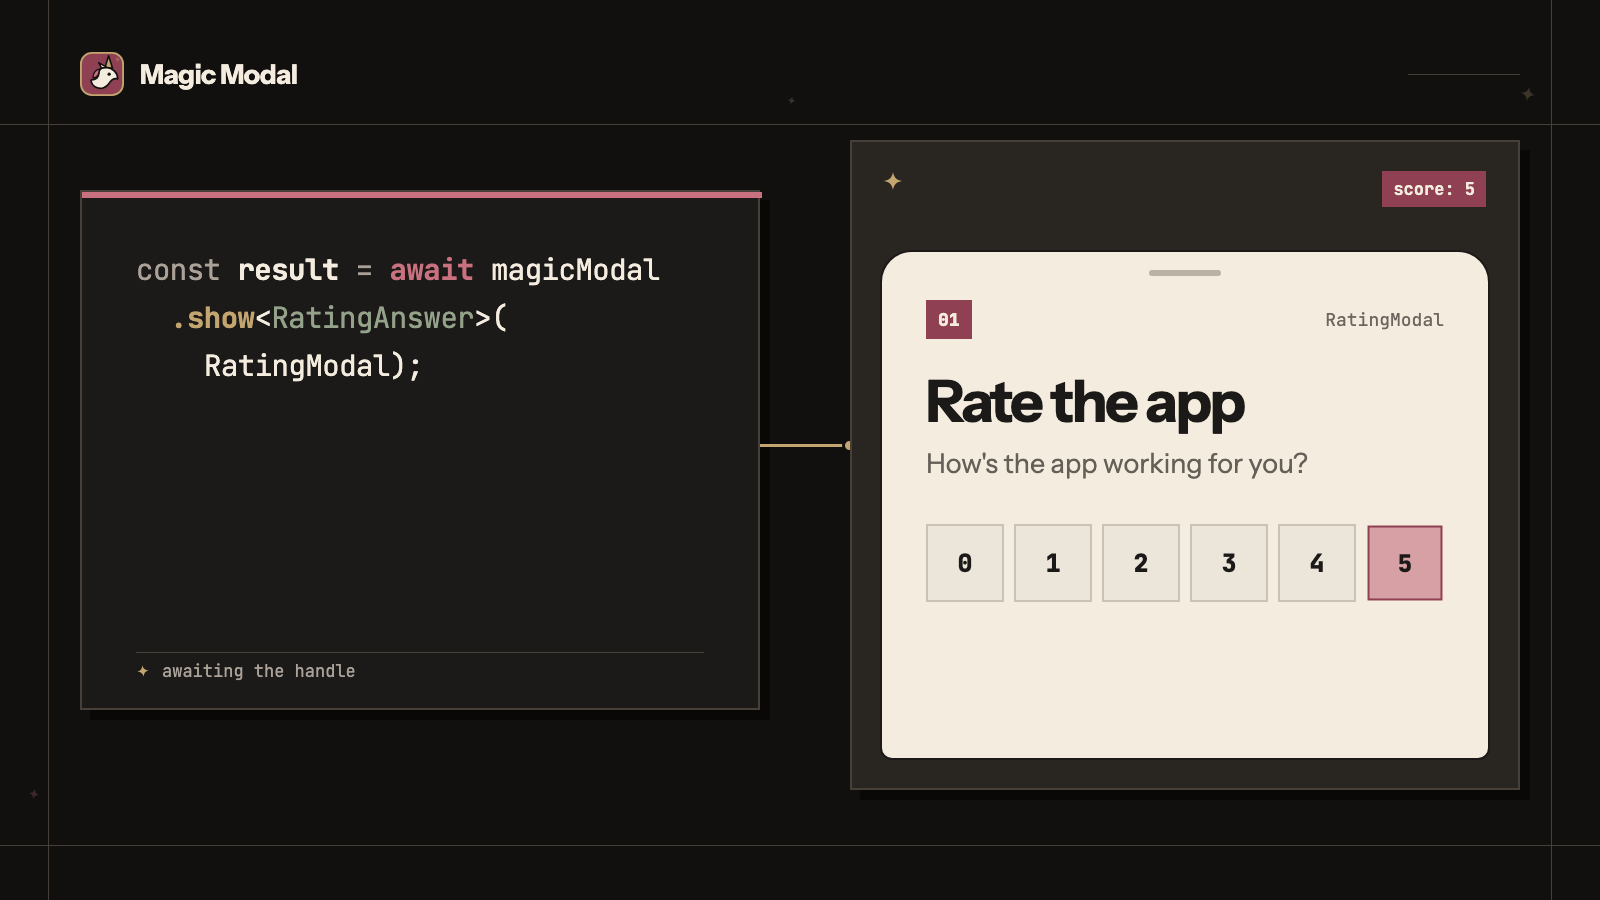
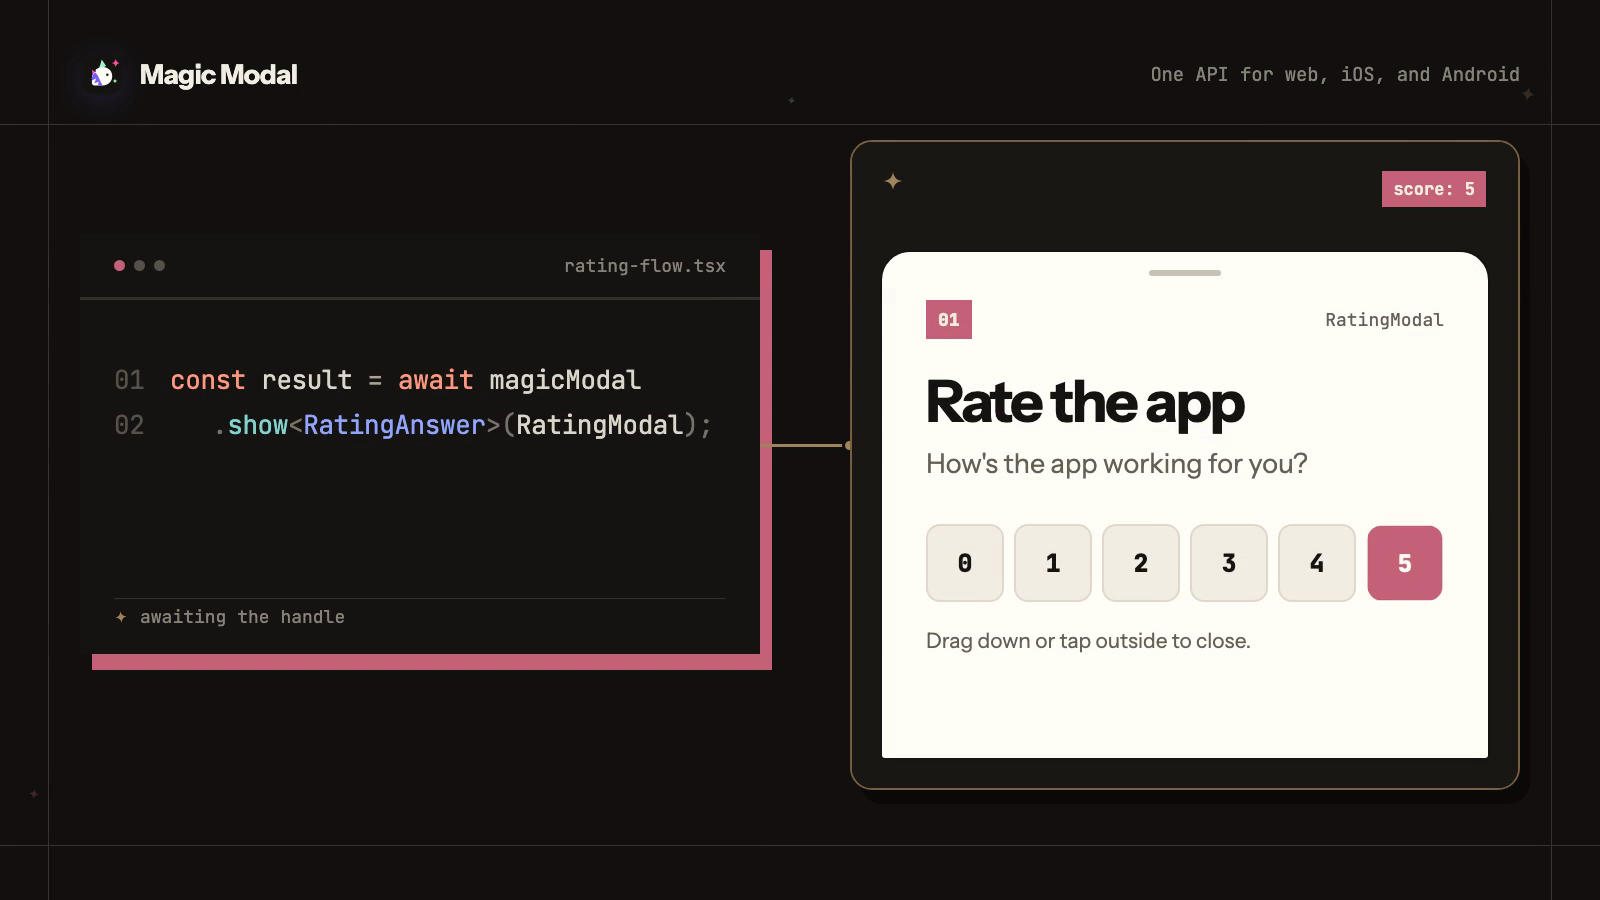
chore(evidence): refresh the #338 frames for the rebrand
The after frame now carries the landing's palette and the current magic-mark,
and the code panel wraps in two lines instead of three. Adds the 1280x640
social card, which has no before — it replaces a 16:9 poster rather than
changing one.

diff --git a/README.md b/README.md
@@ -13,7 +13,8 @@ are closed.
 | `videos/pr336-native-sanity-ios.mp4` | #336 | `feat/web-dom-native` @ `14a24f5` |
 | `videos/pr336-web.mp4` | #336 | `feat/web-dom-native` @ `14a24f5` |
 | `frames/pr338-code-before.png` | #338 | `main` @ `326b018` |
-| `frames/pr338-code-after.png` | #338 | `feat/demo-video-generator` @ `b9c3095` |
+| `frames/pr338-code-after.png` | #338 | `feat/demo-video-generator` @ `75acccc` |
+| `frames/pr338-social-card.png` | #338 | `feat/demo-video-generator` @ `75acccc` |
 
 The iOS videos are `xcrun simctl io recordVideo` on a booted iPhone 17 Pro
 (iOS 26.5) running the kitchen-sink example built Release, driven by Maestro
@@ -32,6 +33,12 @@ untouched — the recording only scales the page's animation timelines.
 
 `frames/` holds stills pulled out of those same files.
 
-The two #338 frames are the odd ones out: nothing was recorded for them. They are
-`media/magic-modal-demo-poster.png` — frame 130 of the Remotion composition — as
-it stands on each branch, copied over unedited. No crop, no scaling.
+The #338 frames are the odd ones out: nothing was recorded for them. The before
+and after are frame 130 of the Remotion composition as it stands on each branch,
+copied over unedited — no crop, no scaling. The before is `main`'s committed
+poster, which was that frame; the after is pulled out of the encode, because the
+branch no longer commits a 16:9 poster.
+
+`pr338-social-card.png` is not a frame of anything. It is the whole of the new
+1280x640 `MagicModalSocial` composition, which is what the branch ships in place
+of that poster.
